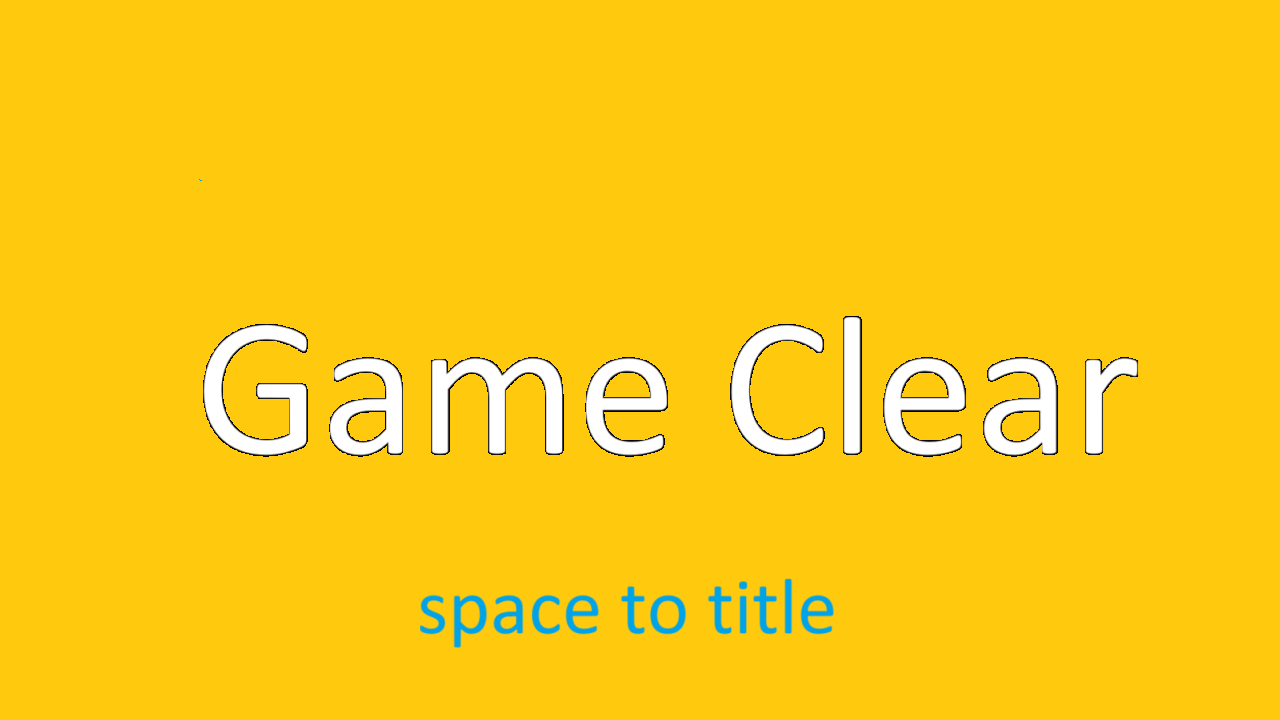
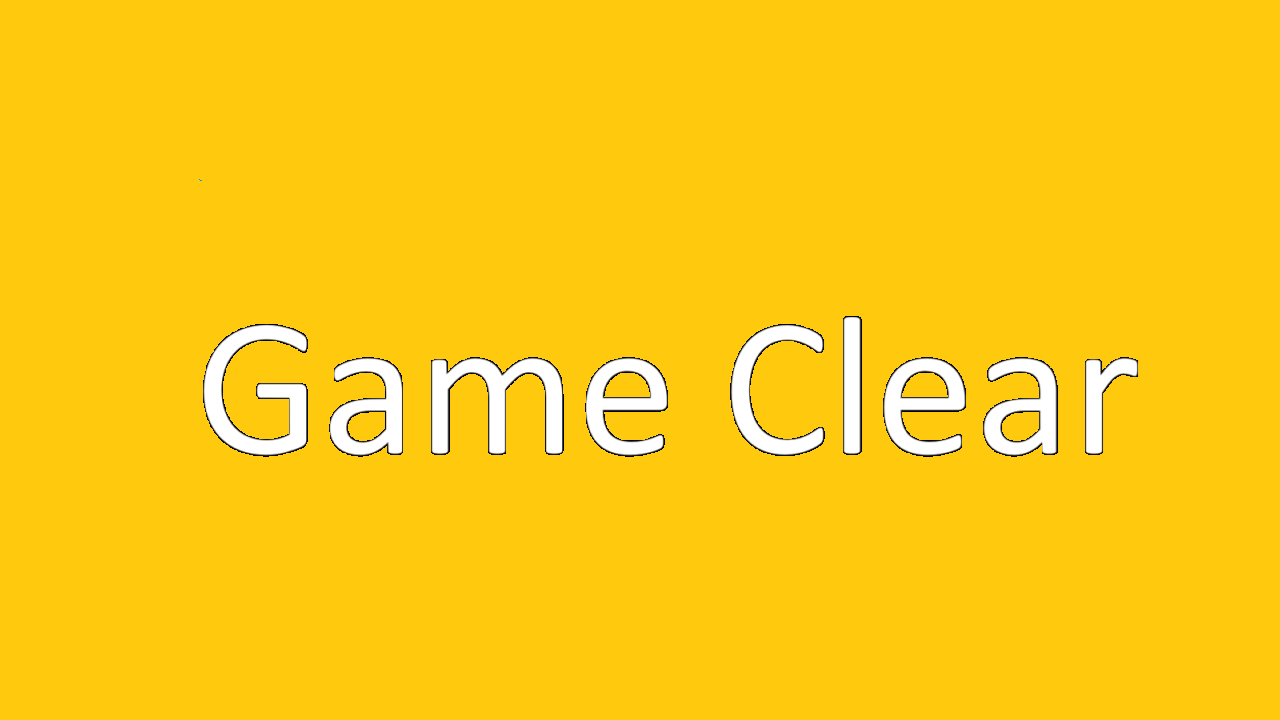
HPばー表示

Changed region(s): [[0.3125, 0.7944, 0.6562, 0.8861]]

diff --git a/Clear.cpp b/Clear.cpp
@@ -29,9 +29,12 @@ void ClearScene::Initialize() {
 
 	// --- 画像読み込み（2Dスプライト） ---
 	textureHandle_ = TextureManager::Load("Clear.png");
+	textureHandleClearBar_ = TextureManager::Load("ClearBar.png");
+
 
 	// --- スプライト生成 ---
 	sprite_ = Sprite::Create(textureHandle_, {0, 0}); // 画面左上に表示
+	spriteClearBar_ = Sprite::Create(textureHandleClearBar_, {400, 550}); // 画面中央に表示
 
 	// 効果音データの読み込み
 	soundBotanHandle_ = Audio::GetInstance()->LoadWave("sound/ALBotan.mp3");
@@ -52,6 +55,20 @@ void ClearScene::Update() {
 	switch (phase_) {
 
 	case Phase::kMain:
+		// pushバー(点滅させる)
+		if (!pushFade_) {
+			pushAlpha_ -= 0.02f;
+			if (pushAlpha_ <= 0.2f) {
+				pushFade_ = true;
+			}
+		} else {
+			pushAlpha_ += 0.02f;
+			if (pushAlpha_ >= 1.0f) {
+				pushFade_ = false;
+			}
+		}
+
+		spriteClearBar_->SetColor({1, 1, 1, pushAlpha_});
 		// --- メイン状態（キー待ち） ---
 		// スペースキー押したらフェードアウト開始
 		if (Input::GetInstance()->PushKey(DIK_SPACE)) {
@@ -100,6 +117,7 @@ void ClearScene::Draw() {
 
 	// Clear.png を描画
 	sprite_->Draw();
+	spriteClearBar_->Draw();
 
 	// スプライト描画終了
 	Sprite::PostDraw();
@@ -128,6 +146,7 @@ ClearScene::~ClearScene() {
 
 	// --- スプライト破棄 ---
 	delete sprite_;
+	delete spriteClearBar_;
 
 	// --- フェード破棄 ---
 	delete fade_;

diff --git a/GameOver.cpp b/GameOver.cpp
@@ -28,9 +28,12 @@ void GameOverScene::Initialize() {
 
 	// --- 画像読み込み（2Dスプライト） ---
 	textureHandle_ = TextureManager::Load("Over.png");
+	textureHandleOverBar_ = TextureManager::Load("OverBar.png");
+
 
 	// --- スプライト生成 ---
-	sprite_ = Sprite::Create(textureHandle_, {0, 0}); // 画面左上に表示
+	sprite_ = Sprite::Create(textureHandle_, {0, 0}); 
+	spriteOverBar_ = Sprite::Create(textureHandleOverBar_, {400, 500}); 
 
 	// サウンドデータの読み込み
 	soundOverHandle_ = Audio::GetInstance()->LoadWave("sound/ALOver.mp3");
@@ -51,6 +54,21 @@ void GameOverScene::Update() {
 	switch (phase_) {
 
 	case Phase::kMain:
+		// pushバー(点滅させる)
+		if (!pushFade_) {
+			pushAlpha_ -= 0.02f;
+			if (pushAlpha_ <= 0.2f) {
+				pushFade_ = true;
+			}
+		} else {
+			pushAlpha_ += 0.02f;
+			if (pushAlpha_ >= 1.0f) {
+				pushFade_ = false;
+			}
+		}
+
+		spriteOverBar_->SetColor({1, 1, 1, pushAlpha_});
+
 		// --- メイン状態（キー待ち） ---
 		// スペースキー押したらフェードアウト開始
 		if (Input::GetInstance()->PushKey(DIK_SPACE)) {
@@ -96,8 +114,10 @@ void GameOverScene::Draw() {
 	// --- スプライト描画開始 ---
 	Sprite::PreDraw(dxCommon_->GetCommandList());
 
-	// Clear.png を描画
+	
 	sprite_->Draw();
+
+	spriteOverBar_->Draw();
 
 	// スプライト描画終了
 	Sprite::PostDraw();

diff --git a/HpBar.cpp b/HpBar.cpp
@@ -11,16 +11,28 @@ HpBar::~HpBar() {
 void HpBar::Initialize(uint32_t textureHandle) {
 	textureHandle_ = textureHandle;
 	// スプライト
-	sprite_ = Sprite::Create(textureHandle_, {100, 20});
-	sprite2_ = Sprite::Create(textureHandle_, {100, 20});
+	sprite_ = Sprite::Create(textureHandle_, {40, 20});
+	sprite2_ = Sprite::Create(textureHandle_, {40, 20});
 }
 
 // 更新
 void HpBar::Update(uint32_t hp) {
+	// 最大HP
+	const float maxHP = 3.0f;
+
+	// HPバーの最大サイズ
+	const float maxWidth = 200.0f;
+
+	// 背景の設定
 	sprite_->SetColor({1.0f, 0.0f, 0.0f, 0.5f});
-	sprite_->SetSize({200, 30});
+	sprite_->SetSize({maxWidth, 30});
+
+	// HPに応じた横幅を計算
+	float hpWidth = maxWidth * (static_cast<float>(hp) / maxHP);
+
+	// HPバーの設定
 	sprite2_->SetColor({0.0f, 1.0f, 0.0f, 0.7f});
-	sprite2_->SetSize({(float)hp, 30});
+	sprite2_->SetSize({hpWidth, 30});
 }
 
 // 描画

diff --git a/TitleScene.cpp b/TitleScene.cpp
@@ -64,22 +64,23 @@ void TitleScene::Update() {
 	// サイズ変更
 	spriteTitleBar_->SetSize({600.0f * titleBarScale_, 120.0f * titleBarScale_});
 
+	// pushバー(点滅させる)
+	if (!pushFade_) {
+		pushAlpha_ -= 0.02f;
+		if (pushAlpha_ <= 0.2f) {
+			pushFade_ = true;
+		}
+	} else {
+		pushAlpha_ += 0.02f;
+		if (pushAlpha_ >= 1.0f) {
+			pushFade_ = false;
+		}
+	}
+
 	switch (phase_) {
 
 	case Phase::kMain:
-		//pushバー(点滅させる)
-		if (!pushFade_) {
-			pushAlpha_ -= 0.02f;
-			if (pushAlpha_ <= 0.2f) {
-				pushFade_ = true;
-			}
-		}
-		else {
-			pushAlpha_ += 0.02f;
-			if (pushAlpha_ >= 1.0f) {
-				pushFade_ = false;
-			}
-		}
+		
 
 		spriteStartBar_->SetColor({1, 1, 1, pushAlpha_});
 

diff --git a/Clear.h b/Clear.h
@@ -63,19 +63,22 @@ private:
 
 	// 画像の読み込みハンドル（テクスチャID）
 	uint32_t textureHandle_ = 0;
+	uint32_t textureHandleClearBar_ = 0;
 
 	// スプライト（2D画像表示用）
 	KamataEngine::Sprite* sprite_ = nullptr;
+	KamataEngine::Sprite* spriteClearBar_ = nullptr;
 
 	// 音声ファイル
-	
 	uint32_t soundClearHandle_ = 0;
 	
 	// 音声再生ハンドル
-	
 	int voiceClearHandle_ = 0;
 
 	// 効果音ハンドル
 	uint32_t soundBotanHandle_ = 0;
 
+	// pushバー
+	float pushAlpha_ = 1.0f;
+	bool pushFade_ = false;
 };

diff --git a/GameOver.h b/GameOver.h
@@ -54,12 +54,13 @@ private:
 
 	// 画像の読み込みハンドル（テクスチャID）
 	uint32_t textureHandle_ = 0;
+	uint32_t textureHandleOverBar_ = 0;
 
 	// スプライト（2D画像表示用）
 	KamataEngine::Sprite* sprite_ = nullptr;
+	KamataEngine::Sprite* spriteOverBar_ = nullptr;
 
 	// 音声ファイル
-
 	uint32_t soundOverHandle_ = 0;
 
 	// 音声再生ハンドル
@@ -67,4 +68,8 @@ private:
 
 	// 効果音ハンドル
 	uint32_t soundBotanHandle_ = 0;
+
+	// pushバー
+	float pushAlpha_ = 1.0f;
+	bool pushFade_ = false;
 };

diff --git a/Player.cpp b/Player.cpp
@@ -178,8 +178,26 @@ AABB Player::GetAABB() {
 void Player::OnCollision(const Enemy* enemy) { 
 	(void)enemy;
 
-	//当たったら死ぬ　
-	isDead_ = true;
+	   // すでに死亡している場合は何もしない
+	if (isDead_) {
+		return;
+	}
+
+	// 無敵時間中ならダメージを受けない
+	if (damageInvincibleTimer_ > 0) {
+		return;
+	}
+
+	// HPを1減らす
+	hp_--;
+
+	// 無敵時間を設定
+	damageInvincibleTimer_ = kDamageInvincibleTime;
+
+	// HPが0になったら死亡
+	if (hp_ <= 0) {
+		isDead_ = true;
+	}
 
 }
 

diff --git a/GameScene.cpp b/GameScene.cpp
@@ -218,7 +218,7 @@ void GameScene::Update() {
 		// 自キャラの更新
 		player_->Update();
 
-		hpBar_->Update(hp_);
+		
 
 
 		// 弾の更新
@@ -294,6 +294,9 @@ void GameScene::Update() {
 		}
 		// 全ての当たり判定
 		CheckAllCollisions();
+
+		// プレイヤーのHP
+		hpBar_->Update(player_->GetHP());
 
 		break;
 	case Phase::kDeath:
